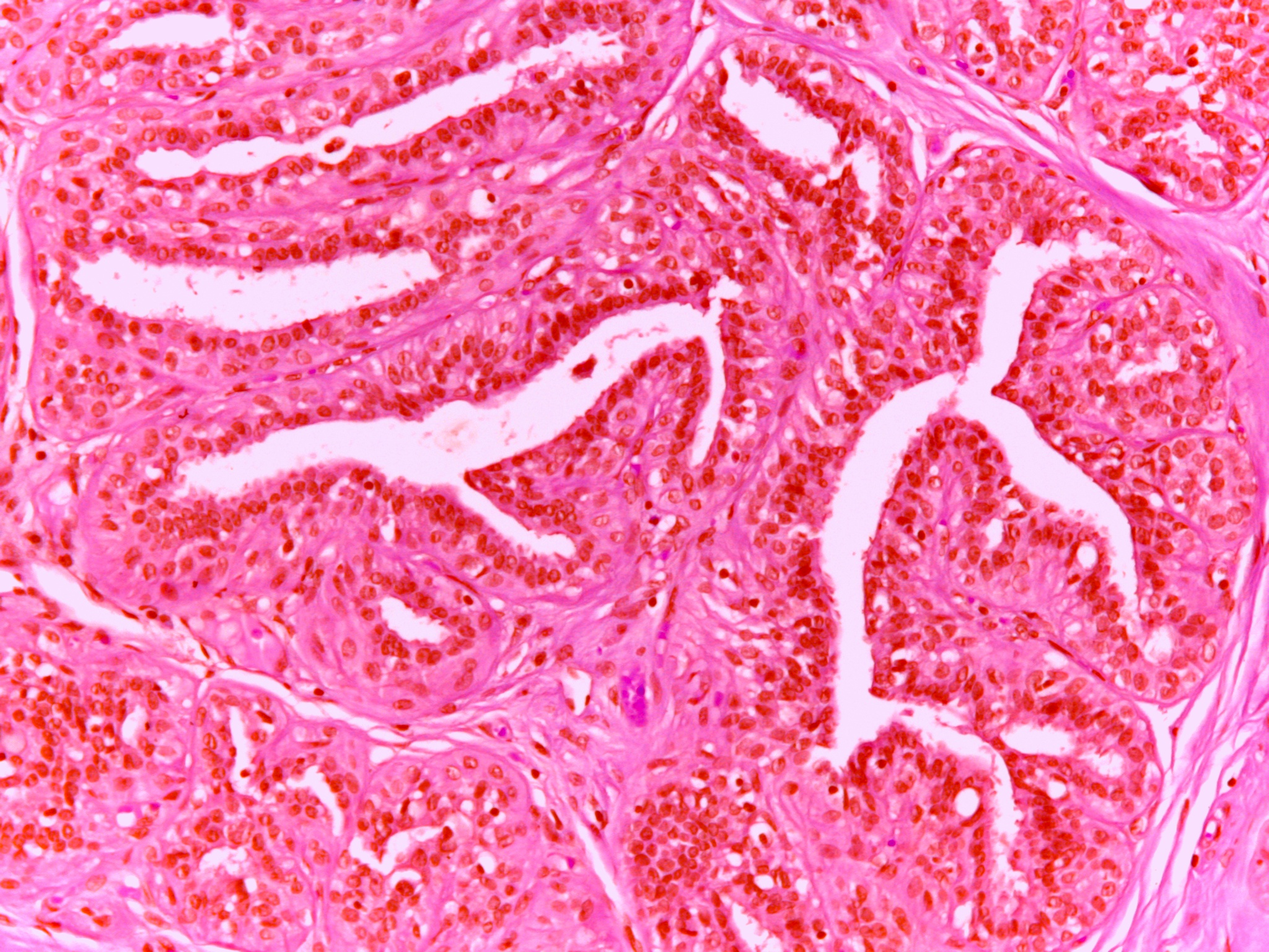
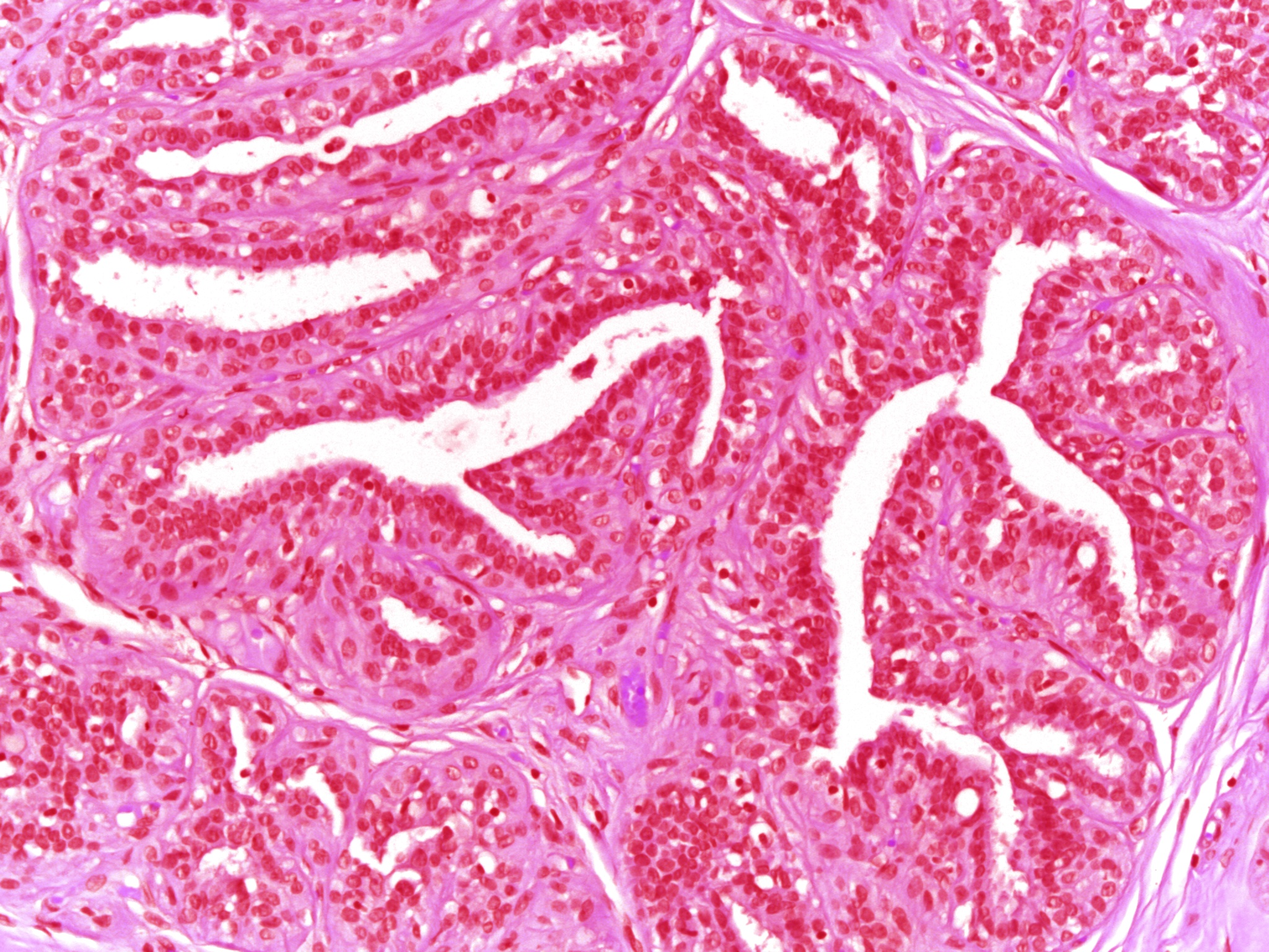
p

diff --git a/test.py b/test.py
@@ -1,11 +1,11 @@
 import stain_utils as utils
-import stainNorm_Reinhard
+import stainNorm_Macenko
 
 import cv2
 
 i3 = utils.read_image('./data/i3.png')
 i2 = utils.read_image('./data/i1.png')
-n = stainNorm_Reinhard.Normalizer()
+n = stainNorm_Macenko.Normalizer()
 n.fit(i3)
 out = n.transform(i2)
 cv2.imwrite('ans.jpg',out)
